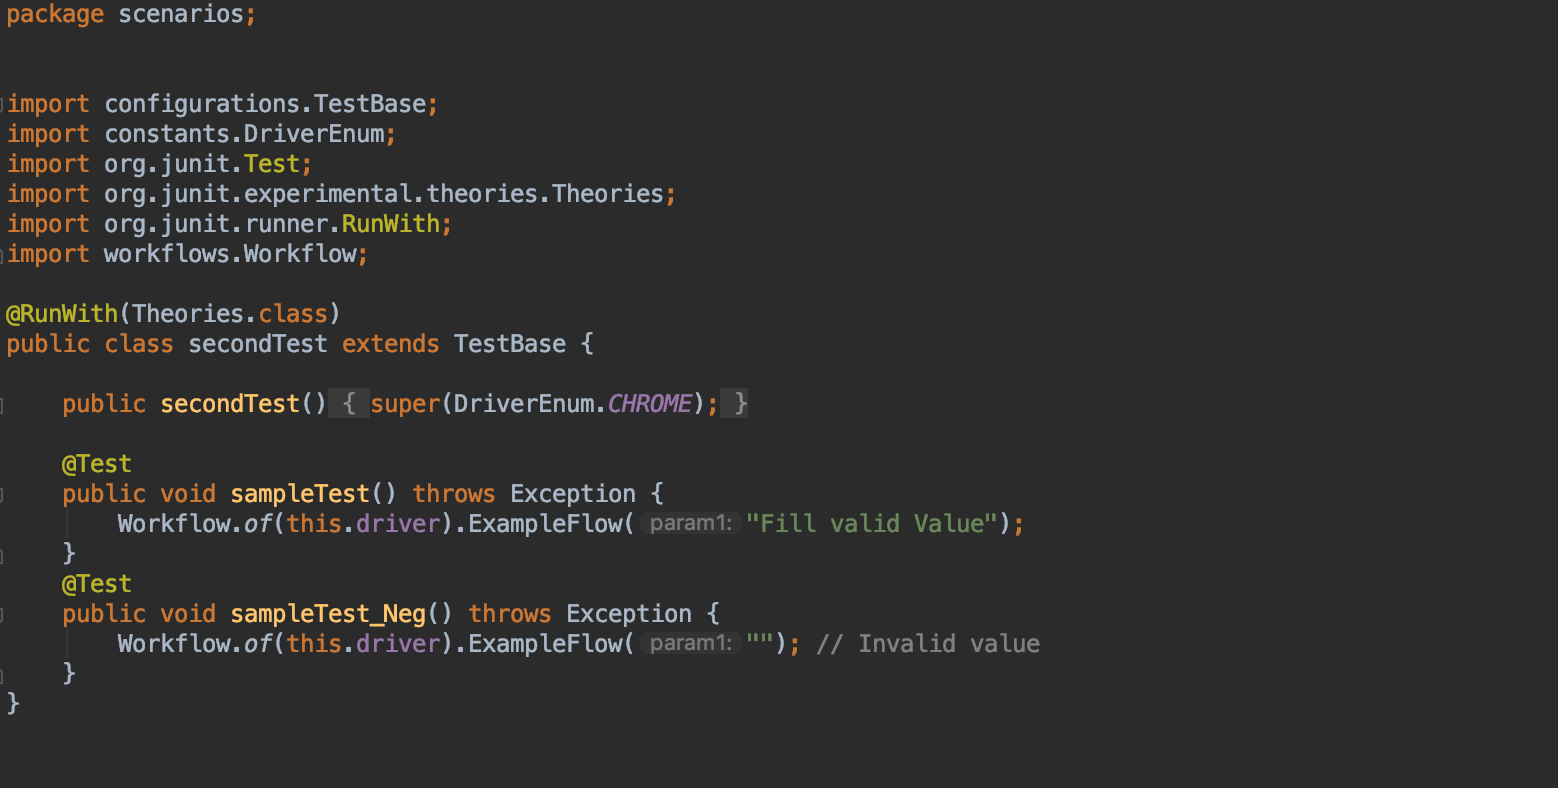
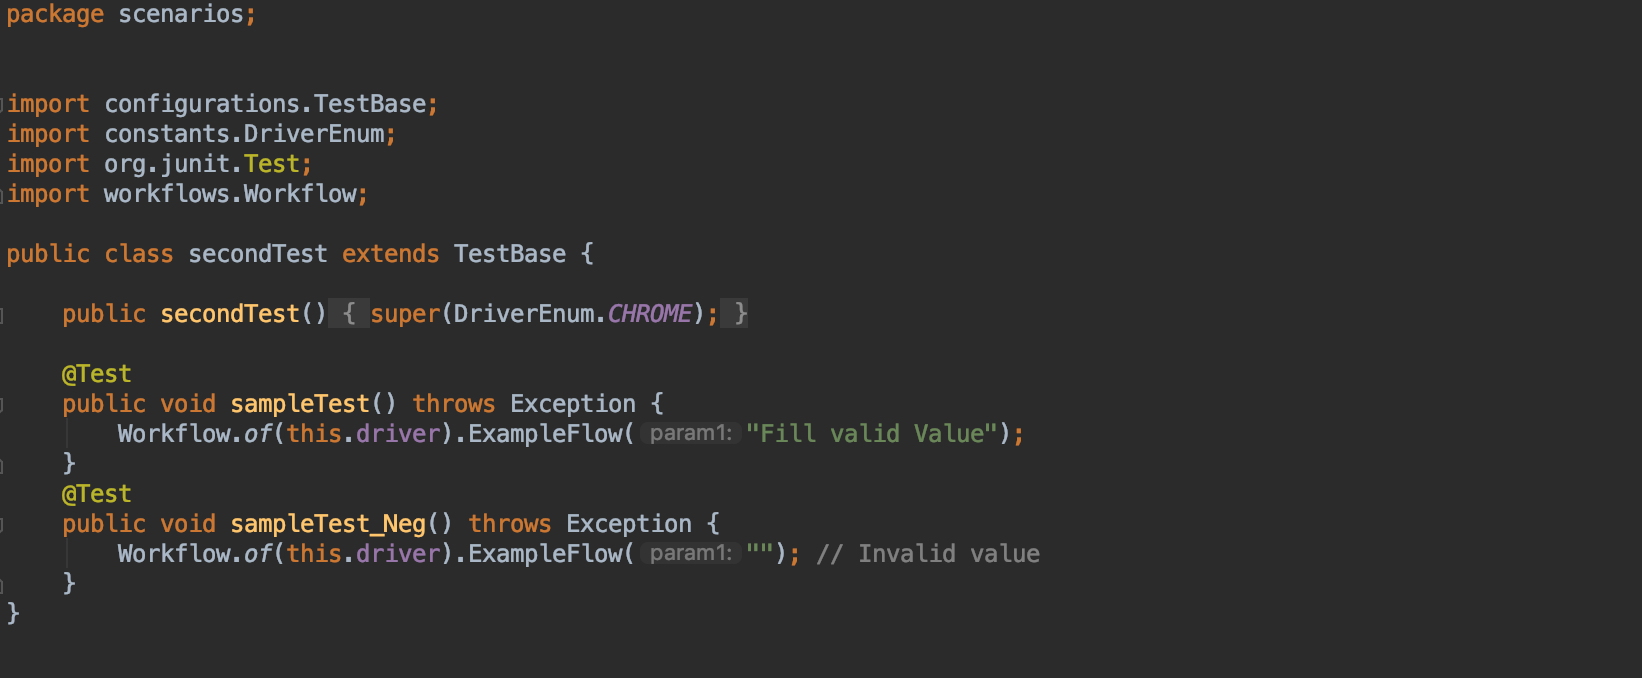
updating secondTest and ReadMe screenshot

diff --git a/src/test/java/scenarios/secondTest.java b/src/test/java/scenarios/secondTest.java
@@ -4,11 +4,8 @@ package scenarios;
 import configurations.TestBase;
 import constants.DriverEnum;
 import org.junit.Test;
-import org.junit.experimental.theories.Theories;
-import org.junit.runner.RunWith;
 import workflows.Workflow;
 
-@RunWith(Theories.class)
 public class secondTest extends TestBase {
 
     public secondTest(){
